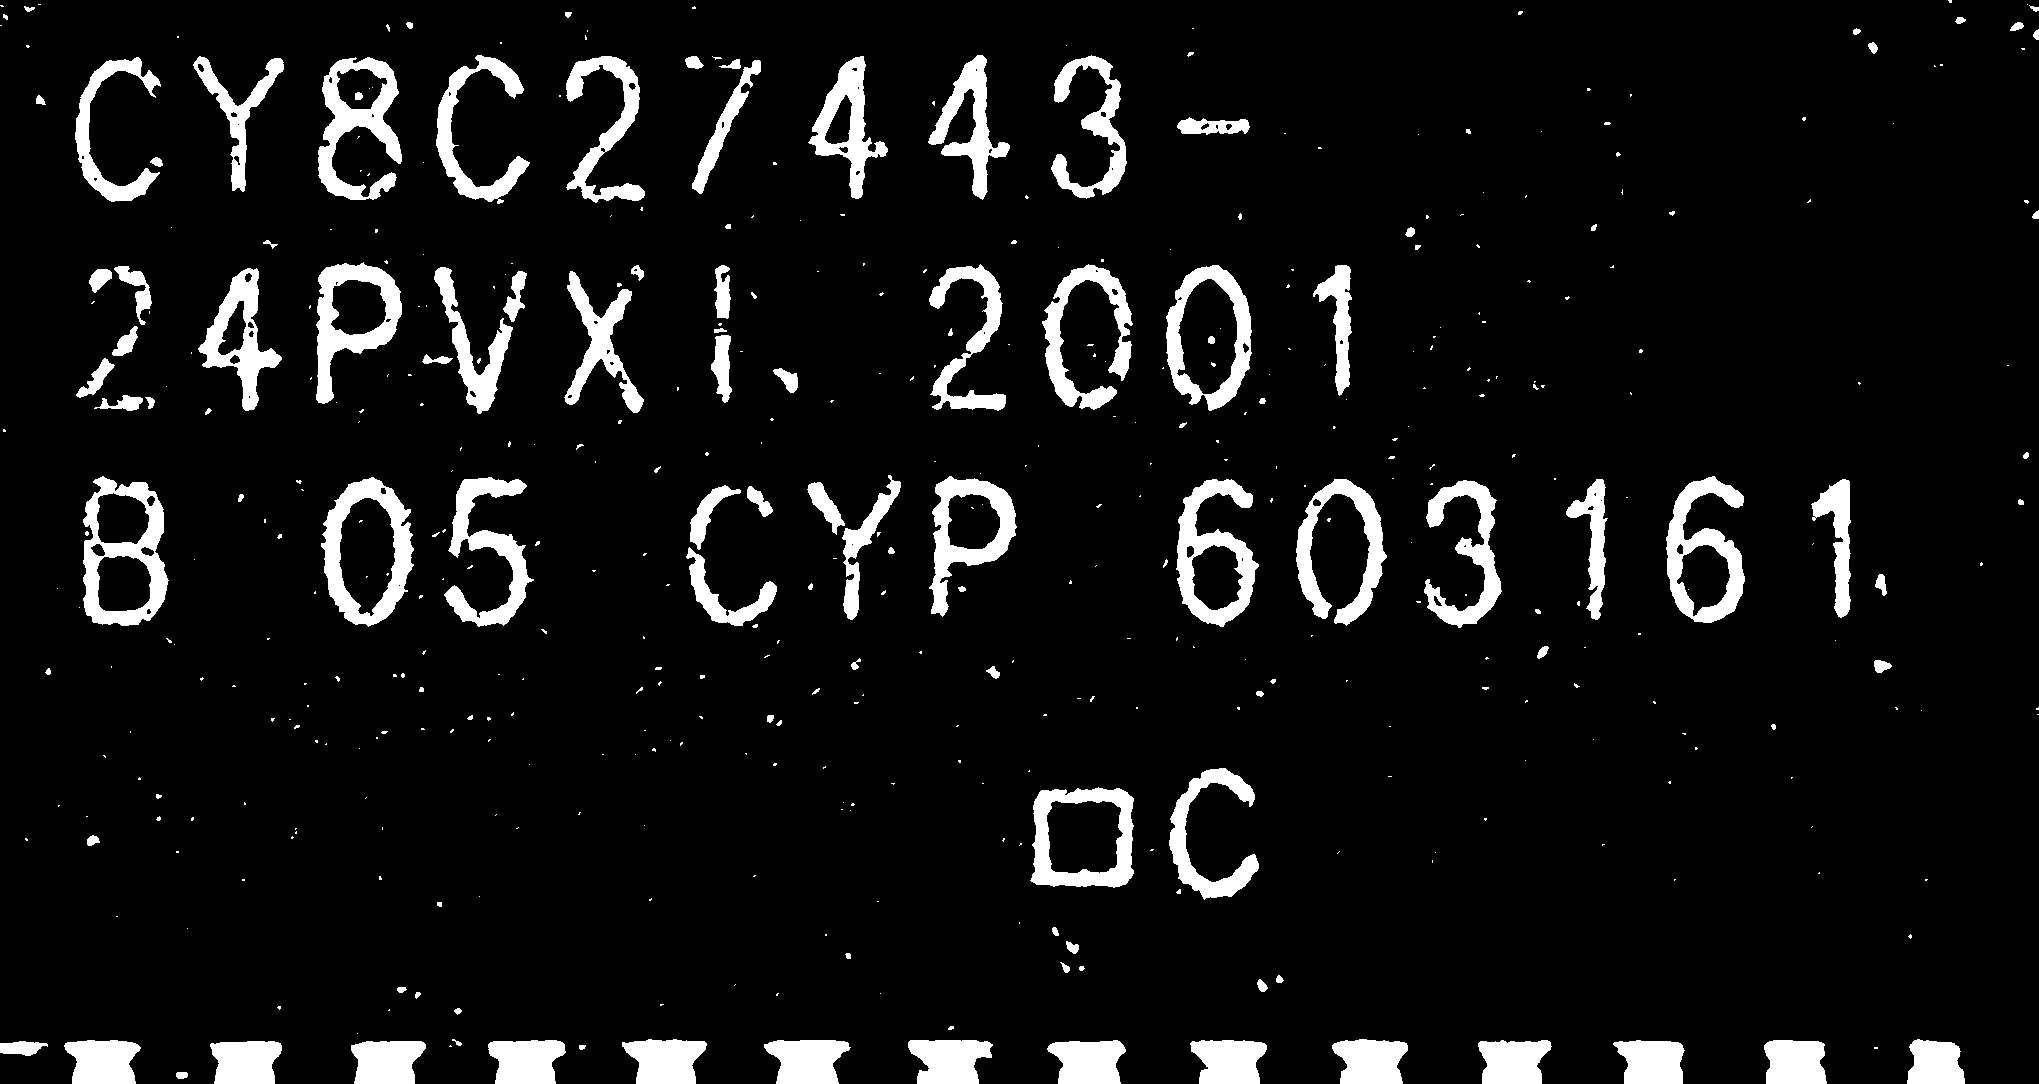
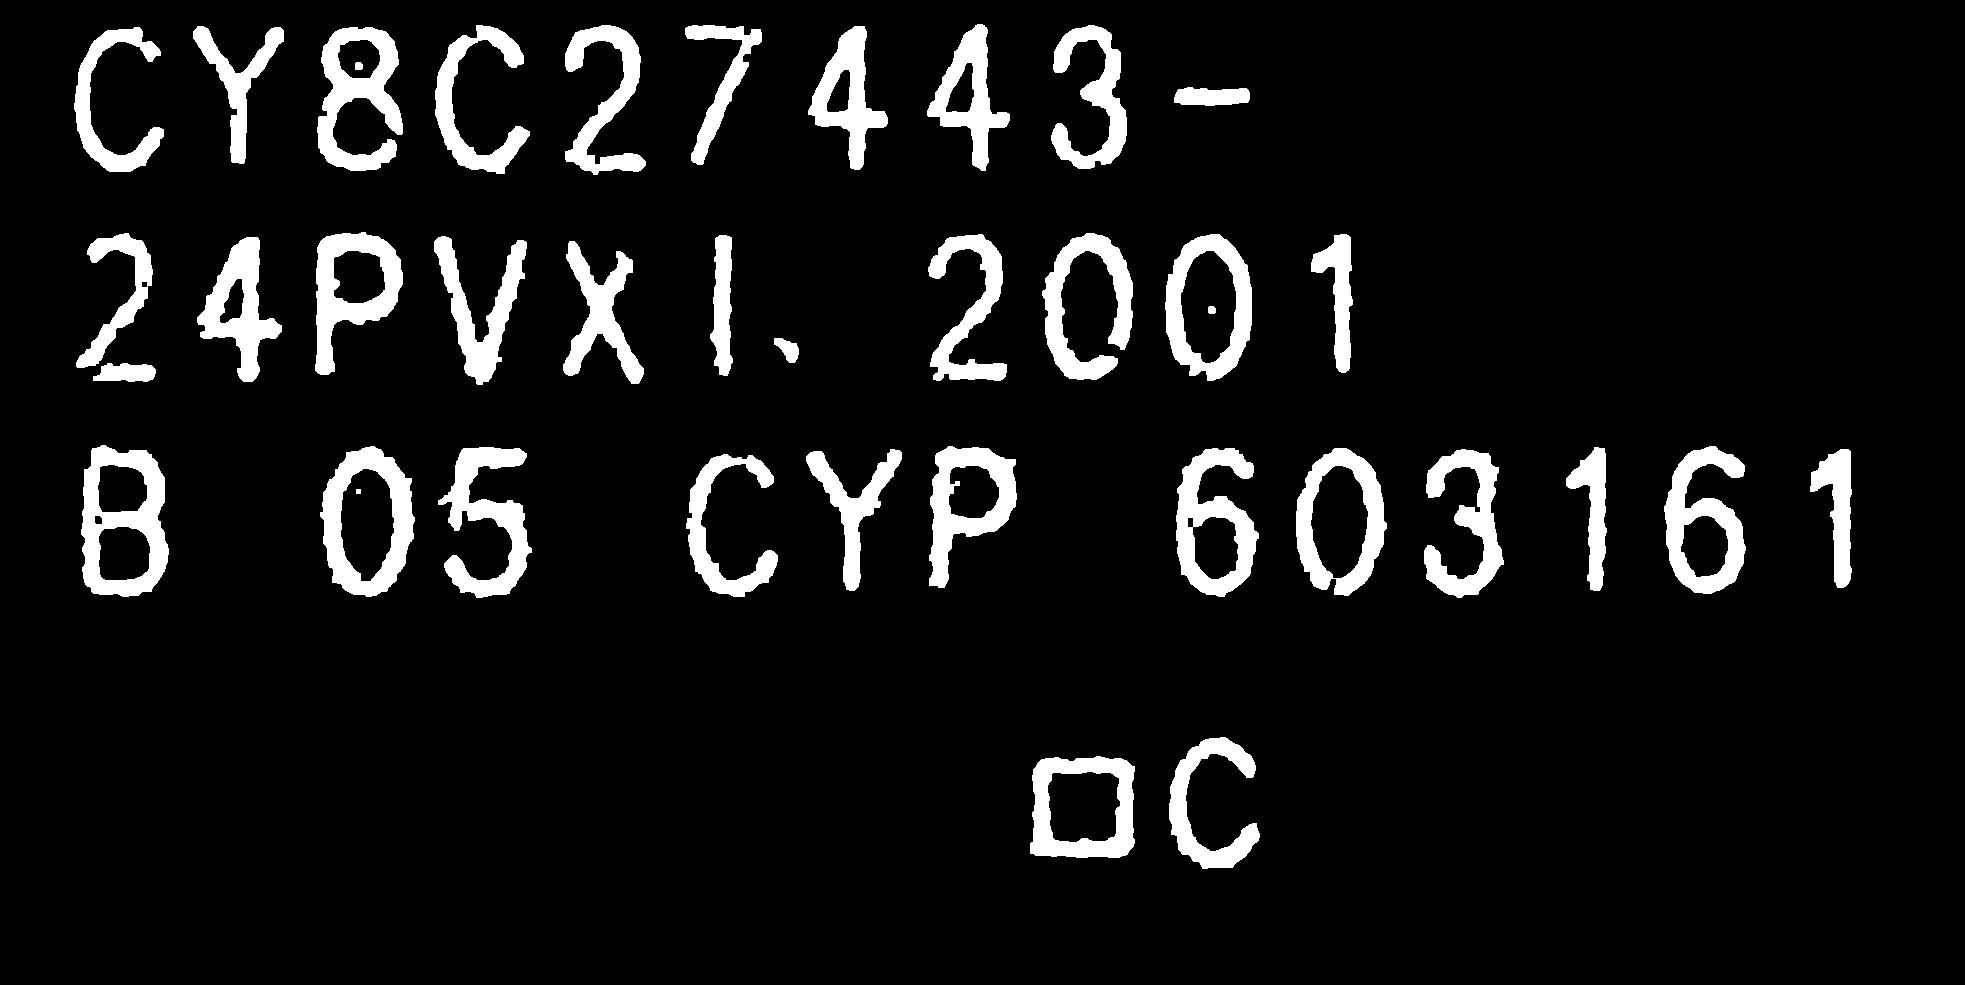
best yet

diff --git a/marking.py b/marking.py
@@ -8,7 +8,7 @@ import glob
 
 def disp_image(image, title="Image", save_image=False):
     (h, w) = image.shape[:2]
-    img = cv2.resize(image, (int(w / 4), int(h / 4)))
+    img = cv2.resize(image, (int(w / 2), int(h / 2)))
     cv2.imshow(title, img)
     # cv2.setWindowProperty(title, cv2.WND_PROP_FULLSCREEN, cv2.WINDOW_FULLSCREEN)
     cv2.waitKey(0)
@@ -47,6 +47,19 @@ def adjust_contrast_brightness(img, contrast: float = 1.0, brightness: int = 0):
     return cv2.addWeighted(img, contrast, img, 0, brightness)
 
 
+def kmeans(img, K):
+    Z = img.reshape((-1, 3))
+    Z = np.float32(Z)
+    # define criteria, number of clusters(K) and apply kmeans()
+    criteria = (cv2.TERM_CRITERIA_EPS + cv2.TERM_CRITERIA_MAX_ITER, 10, 1.0)
+    ret, label, center = cv2.kmeans(Z, K, None, criteria, 10, cv2.KMEANS_RANDOM_CENTERS)
+    # Now convert back into uint8, and make original image
+    center = np.uint8(center)
+    res = center[label.flatten()]
+    res2 = res.reshape((img.shape))
+    return res2
+
+
 img_list = [
     "marking_images/A-J-28SOP-03F-SM.png",
     "marking_images/C-T-08DIP-11F-SM.png",
@@ -62,30 +75,73 @@ img_list = [
 temp = 1
 for i in img_list:
     img = cv2.imread(i)
-
-    # -------- comment out this section to get rid of contrast
-    disp_image(
-        img, "original"
-    )  # shows image after threshholding and before adjusting brightness/contrast
-    cv2.waitKey(0)
-    cv2.destroyAllWindows()
-    img = adjust_contrast_brightness(
-        img, 2, 25
-    )  # I arbitrarily chose numbers and adjusted from there, feel free to edit
-    # ---------- ^^
-
     center = isolate_center(img)
     img = img[
-        center[1] : center[1] + center[3] - 100, center[0] : center[0] + center[2] - 100
+        center[1] + 100 : center[1] + center[3] - 200,
+        center[0] : center[0] + center[2] - 175,
     ]
+    # (h, w) = img.shape[:2]
+    # scale = 2
+    # img = cv2.resize(img, (int(w / scale), int(h / scale)))
+    disp_image(img, "center")
+    # # -------- comment out this section to get rid of contrast
+    # img = adjust_contrast_brightness(
+    #     img, 2.0, 50
+    # )  # I arbitrarily chose numbers and adjusted from there, feel free to edit
+    # disp_image(img, "contrast")
+    # # ---------- ^^
+
     # maybe adjust 30 to different values here
-    img = cv2.fastNlMeansDenoisingColored(img, None, 30, 30, 7, 21)
-    disp_image(img, "contrast + denoise")
+    img = cv2.fastNlMeansDenoisingColored(img, None, 9, 9, 7, 21)
+    # img = cv2.bilateralFilter(img, 9, 75, 75)
+    # img = cv2.GaussianBlur(img, (9, 9), cv2.BORDER_REPLICATE)
+    disp_image(img, "denoise")
     img = cv2.cvtColor(img, cv2.COLOR_BGR2GRAY)
-    disp_image(img, "grayscale")
-    _, th = cv2.threshold(img, 0, 255, cv2.THRESH_BINARY + cv2.THRESH_OTSU)
+    _, th = cv2.threshold(img, 235, 255, cv2.THRESH_BINARY + cv2.THRESH_OTSU)
     disp_image(th, "threshold")
     img = th
+
+    kernel_size = 5
+    kernel = np.ones((kernel_size, kernel_size), np.uint8)
+    img = cv2.morphologyEx(img, cv2.MORPH_OPEN, kernel, iterations=1)
+    disp_image(img, "opening")
+
+    contours, hierarchy = cv2.findContours(
+        img, cv2.RETR_EXTERNAL, cv2.CHAIN_APPROX_NONE
+    )
+    img = cv2.cvtColor(img, cv2.COLOR_GRAY2BGR)
+    for c in contours:
+        x, y, w, h = cv2.boundingRect(c)
+        if cv2.contourArea(c) < 200 and (w < 20 or h < 20):
+            x, y, w, h = cv2.boundingRect(c)
+            # cv2.drawContours(img, c, -1, (0, 255, 0), thickness=cv2.FILLED)
+            cv2.rectangle(img, (x, y), (x + w, y + h), (0, 255, 0), -1)
+    disp_image(img, "contours")
+    for c in contours:
+        x, y, w, h = cv2.boundingRect(c)
+        if cv2.contourArea(c) < 200 and (w < 20 or h < 20):
+            x, y, w, h = cv2.boundingRect(c)
+            # cv2.drawContours(img, c, -1, (0, 255, 0), thickness=cv2.FILLED)
+            cv2.rectangle(img, (x, y), (x + w, y + h), (0, 0, 0), -1)
+
+    # kernel_size = 5
+    # kernel = np.ones((kernel_size, kernel_size), np.uint8)
+    # img = cv2.morphologyEx(img, cv2.MORPH_GRADIENT, kernel)
+    # disp_image(img, "gradient")
+    kernel_size = 3
+    kernel = np.ones((kernel_size, kernel_size), np.uint8)
+    img = cv2.morphologyEx(img, cv2.MORPH_CLOSE, kernel, iterations=2)
+    disp_image(img, "closing")
+    # kernel_size = 3
+    # kernel = np.ones((kernel_size, kernel_size), np.uint8)
+    # erosion = cv2.erode(img, kernel, iterations=1)
+    # disp_image(erosion, "erosion")
+    # img = erosion
+    # # kernel_size = 3
+    # # kernel = np.ones((kernel_size, kernel_size), np.uint8)
+    # # dilation = cv2.dilate(erosion, kernel, iterations=1)
+    # # disp_image(dilation, "dilation")
+    # # img = dilation
 
     os.chdir("th_imgs")  # change directory to th_imgs folder
     cv2.imwrite("thImg_{}.png".format(temp), img)  # save the updated thresholded image
